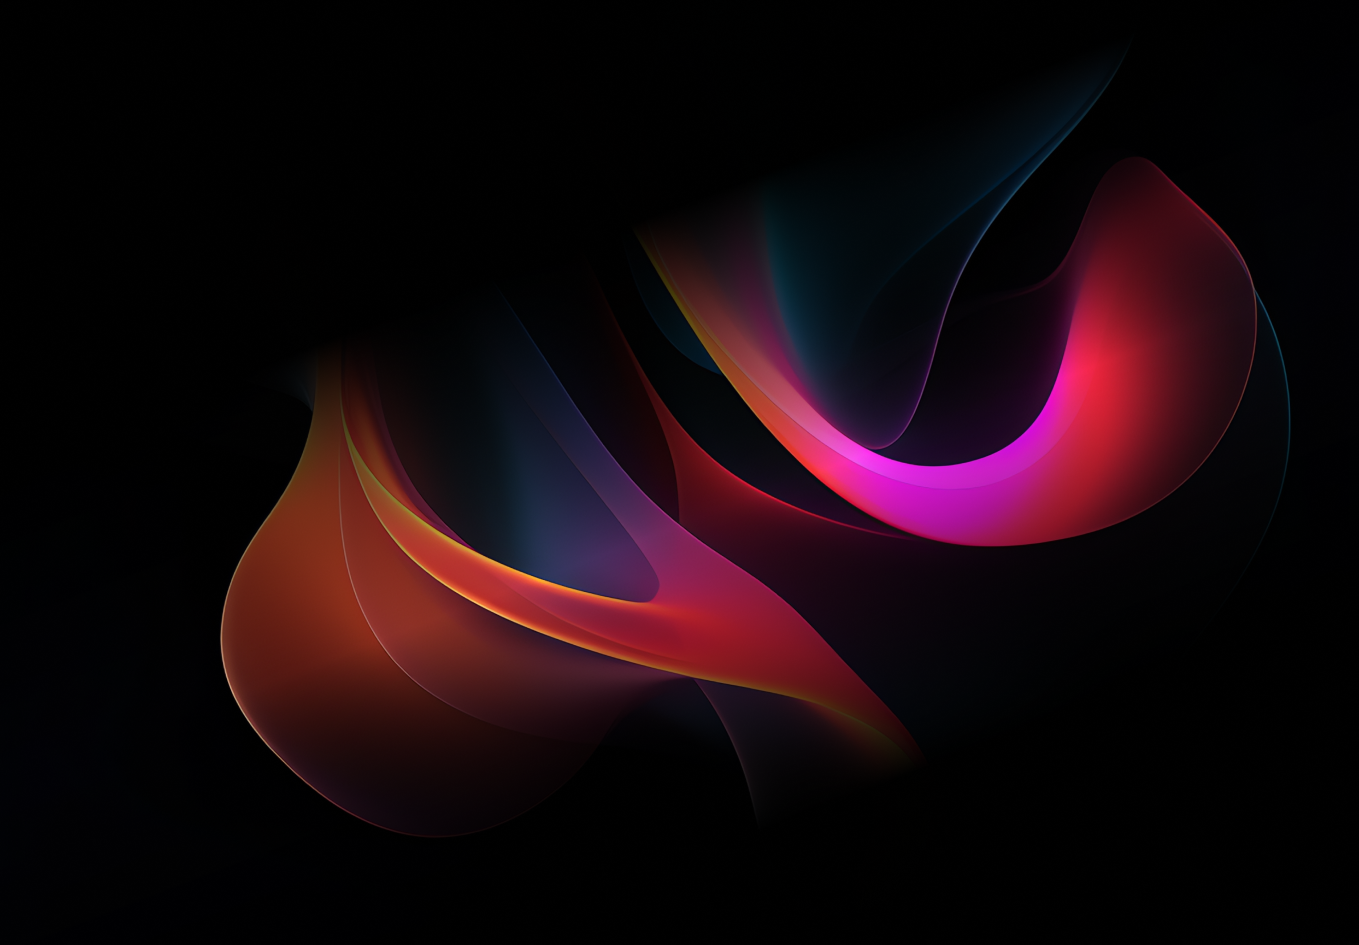
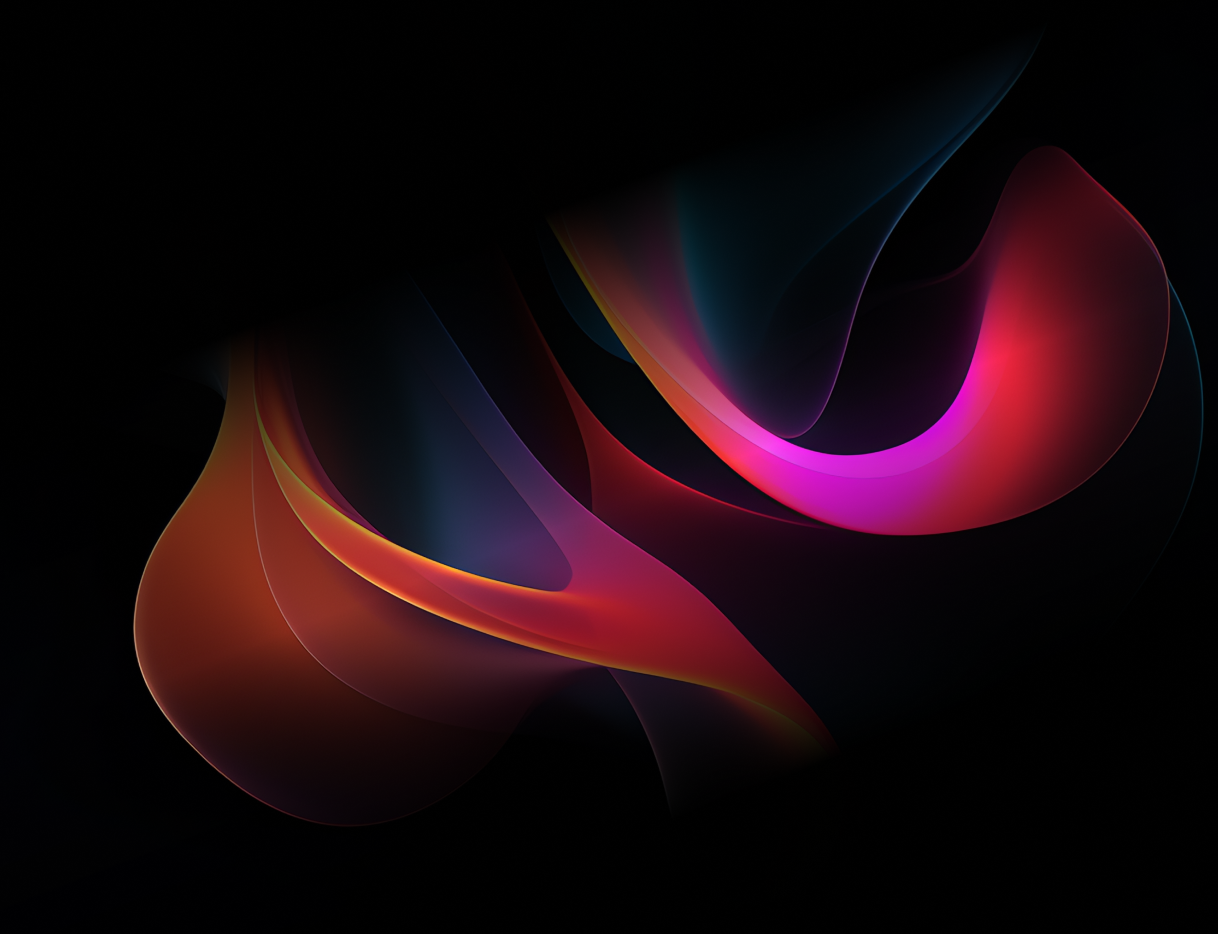
Intro section fix responsiveness

diff --git a/src/components/IntroSection/IntroSection.tsx b/src/components/IntroSection/IntroSection.tsx
@@ -4,7 +4,11 @@ import Text from '../Text'
 import useScreenSize from '../../hooks/useScreenSize'
 import IntroSectionContent from './IntroSectionContent'
 
-const IntroSectionStyled = styled.div`
+interface IntroSectionStyledProps {
+    video: boolean
+}
+
+const IntroSectionStyled = styled.div<IntroSectionStyledProps>`
     margin-top: 256px;
     display: flex;
     flex-direction: column;
@@ -18,11 +22,12 @@ const IntroSectionStyled = styled.div`
     /* height: 1000px; */
     height: 1000px;
     margin-bottom: -120px;
-
+    /* border: 2px d solid; */
+    margin-top: ${(props) => (props.video ? '250px' : '100px')};
     @media (max-width: 991px) {
         height: auto;
         margin-bottom: 64px;
-        overflow: hidden;
+        /* overflow: hidden; */
     }
 
     @media (max-width: 830px) {
@@ -30,9 +35,10 @@ const IntroSectionStyled = styled.div`
     }
 
     @media (max-width: 767px) {
-        padding: 80px 24px;
-        width: calc(100% + 48px);
-        margin-left: -24px;
+        padding: 80px 16px;
+        width: calc(100% + 32px);
+        margin-left: -16px;
+        margin-top: 50px;
     }
 `
 
@@ -46,6 +52,7 @@ const IntroSectionHeadingStyled = styled.div`
     /* border: 2px green solid; */
     max-width: 1216px;
     width: 100%;
+    padding-bottom: 32px;
     padding-left: ${(props) => props.theme.margins.medium};
 
     @media (max-width: 991px) {
@@ -62,23 +69,38 @@ const IntroSectionHeadingStyled = styled.div`
 const GradientOverlay = styled.img`
     position: absolute;
     top: 0px;
-    left: 0;
-    z-index: 0;
+    /* left: 0; */
+    z-index: -1;
     width: 100%;
     height: auto;
+    /* width: calc(100% + 112px); */
+    margin-left: -112px;
+
+    @media (max-width: 830px) {
+        margin-left: -64px;
+    }
+
     @media (max-width: 767px) {
-        top: 40px;
+        top: 80px;
+        /* border: 2px red solid;
+        width: calc(100% + 32px);
+        margin-left: -16px; */
+        margin-left: -16px;
     }
 `
+interface IntroSectionProps {
+    video: boolean
+}
 
-const IntroSection = () => {
+const IntroSection = ({ video }: IntroSectionProps) => {
     const { isScreenSmall, isScreenMedium } = useScreenSize()
 
     return (
-        <IntroSectionStyled>
+        <IntroSectionStyled video={video}>
             {isScreenMedium && (
                 <GradientOverlay src="IntroducingEmethGradientMobile.png" />
             )}
+
             <IntroSectionHeadingStyled>
                 <Badge>INTRODUCING EMETH</Badge>
                 <Text
@@ -90,9 +112,36 @@ const IntroSection = () => {
                     Next-Gen DeFi <br /> Portfolio Management
                 </Text>
             </IntroSectionHeadingStyled>
+            <IntroSectionImgSmall
+                src="IntroducingEmethPictureMobile.png"
+                alt="Emeth"
+            />
             <IntroSectionContent />
         </IntroSectionStyled>
     )
 }
 
 export default IntroSection
+
+const IntroSectionImgSmall = styled.img`
+    overflow: hidden;
+    width: calc(100% + 112px);
+    display: none;
+    /* margin-left: 112px; */
+    /* width: 100%; */
+    /* border: 2px red solid; */
+
+    @media (max-width: 991px) {
+        display: flex;
+        /* margin-left: 112px; */
+    }
+
+    @media (max-width: 830px) {
+        width: calc(100% + 64px);
+    }
+
+    @media (max-width: 767px) {
+        width: calc(100% + 16px);
+        /* margin-left: 16px; */
+    }
+`

diff --git a/src/components/IntroSection/IntroSectionContent.tsx b/src/components/IntroSection/IntroSectionContent.tsx
@@ -13,14 +13,7 @@ const IntroSectionContent = () => {
                     src="IntroducingEmethPicture.png"
                     alt="Emeth"
                 />
-            ) : (
-                <IntroSectionImgSmallWrapper>
-                    <IntroSectionImgSmall
-                        src="IntroducingEmethPictureMobile.png"
-                        alt="Emeth"
-                    />
-                </IntroSectionImgSmallWrapper>
-            )}
+            ) : null}
             <IntroSectionContentWrapper>
                 <IntroSectionDescriptionStyled>
                     <Text
@@ -60,17 +53,19 @@ const IntroSectionDescriptionStyled = styled.div`
 
     @media (max-width: 991px) {
         width: 100%;
+        margin-top: 0;
+        gap: 32px;
     }
 `
 
 const IntroSectionImg = styled.img`
     flex: 0;
     flex-shrink: 0;
-    left: -0px;
+    left: -20px;
     /* margin-left: -90px; */
-    z-index: 3;
+    z-index: 6;
     /* border: 2px green solid; */
-    top: 180px;
+    top: 212px;
     width: 75%;
     max-width: 1200px;
     position: absolute;
@@ -103,32 +98,11 @@ const IntroSectionContentWrapper = styled.div`
     }
 
     @media (max-width: 767px) {
-        padding: 0 24px;
+        /* padding: 0 24px; */
         padding-bottom: 48px;
     }
 `
 
 const C = styled.div`
     width: 100%;
-`
-
-const IntroSectionImgSmall = styled.img`
-    width: 100%;
-    /* position: absolute; */
-    /* top: 0; */
-    /* right: -100px; */
-    margin-left: 50px;
-`
-
-const IntroSectionImgSmallWrapper = styled.div`
-    width: 100%;
-    /* border: 2px red solid; */
-    width: calc(100% + 224px);
-    margin-left: -112px;
-    position: relative;
-
-    @media (max-width: 767px) {
-        width: calc(100% + 128px);
-        margin-left: -64px;
-    }
 `

diff --git a/src/components/HeroSection/Hero.tsx b/src/components/HeroSection/Hero.tsx
@@ -74,14 +74,17 @@ const GradientBackground = styled.img<GradientBackgroundProps>`
     /* width: 108%; */
     height: auto;
     z-index: 1;
-    max-width: 1300px;
+    max-width: 1250px;
     margin: 0 auto;
     display: flex;
     width: 100%;
     /* border: 2px red solid; */
     position: absolute;
-    top: ${({ video }) => (video ? '-80px' : '-150px')};
+    margin: 0 auto;
     left: 0;
+    right: 0;
+    top: ${({ video }) => (video ? '-20px' : '-100px')};
+    /* left: 0; */
     /* max-width: ${({ video }) => (video ? '1350px' : '1300px')}; */
     /* left: ${({ video }) => (video ? '0' : '-20px')}; */
 
@@ -100,14 +103,17 @@ const GradientBackground = styled.img<GradientBackgroundProps>`
 
     @media (max-width: 767px) {
         top: -40px;
+        left: ${({ video }) => (video ? '0' : '-70px')};
     }
 
     @media (max-width: 560px) {
         top: 50px;
+        left: ${({ video }) => (video ? '0' : '-40px')};
     }
 
     @media (max-width: 450px) {
         top: 150px;
+        left: ${({ video }) => (video ? '0' : '-20px')};
     }
 `
 
@@ -115,6 +121,8 @@ const Wrapper = styled.div`
     width: 100%;
     /* border: 2px yellow solid; */
     padding: 0 208px;
+    width: 100%;
+    /* width: calc(100 + 218px); */
     position: relative;
 
     @media (max-width: 1200px) {

diff --git a/src/components/OurMissionBanner.tsx b/src/components/OurMissionBanner.tsx
@@ -40,6 +40,11 @@ const OurMissionStyled = styled.div<OurMissionStyledProps>`
     @media (max-width: 1150px) {
         margin-top: -50px;
     } */
+
+    @media (max-width: 1440px) {
+        margin-top: 50px;
+    }
+
     @media (max-width: 1024px) {
         margin-left: -112px;
         width: calc(100% + 224px);
@@ -48,9 +53,9 @@ const OurMissionStyled = styled.div<OurMissionStyledProps>`
     }
 
     @media (max-width: 767px) {
-        padding: 80px 24px;
-        margin-left: -24px;
-        width: calc(100% + 48px);
+        padding: 80px 16px;
+        margin-left: -16px;
+        width: calc(100% + 32px);
         height: auto;
         background-size: contain;
     }

diff --git a/src/Home.tsx b/src/Home.tsx
@@ -37,7 +37,9 @@ const Home = () => {
             <Navbar type="upper" />
             <HomeStyled>
                 <Hero video />
-                <IntroSection />
+                <IntroSection video />
+                {/* <Hero video={false} />
+                <IntroSection video={false} /> */}
                 <OurMissionBanner />
                 <FeaturesSection />
                 <ValuesSection />
